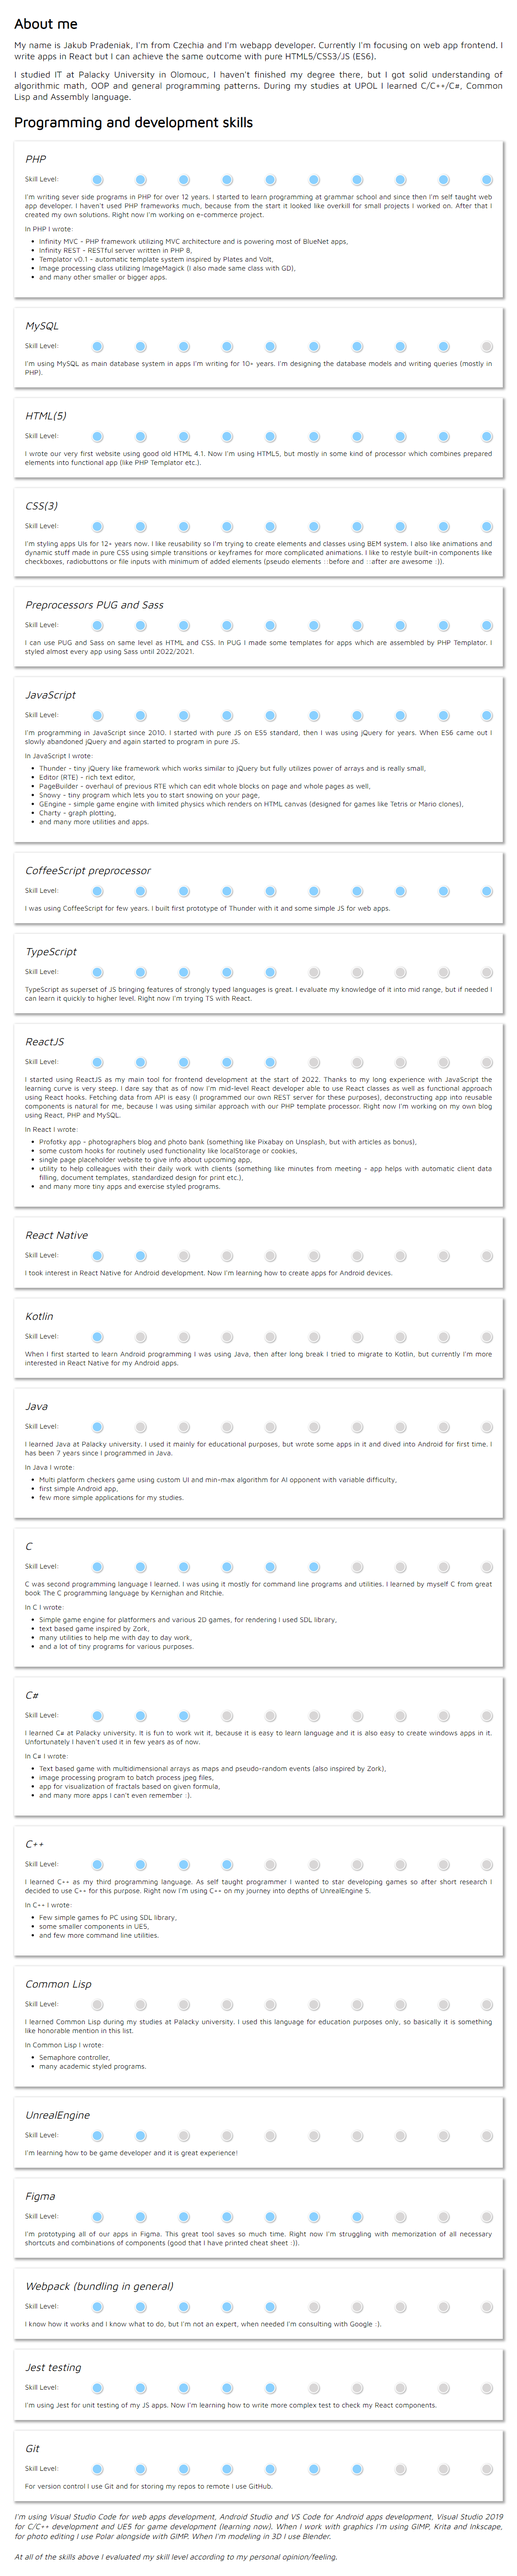
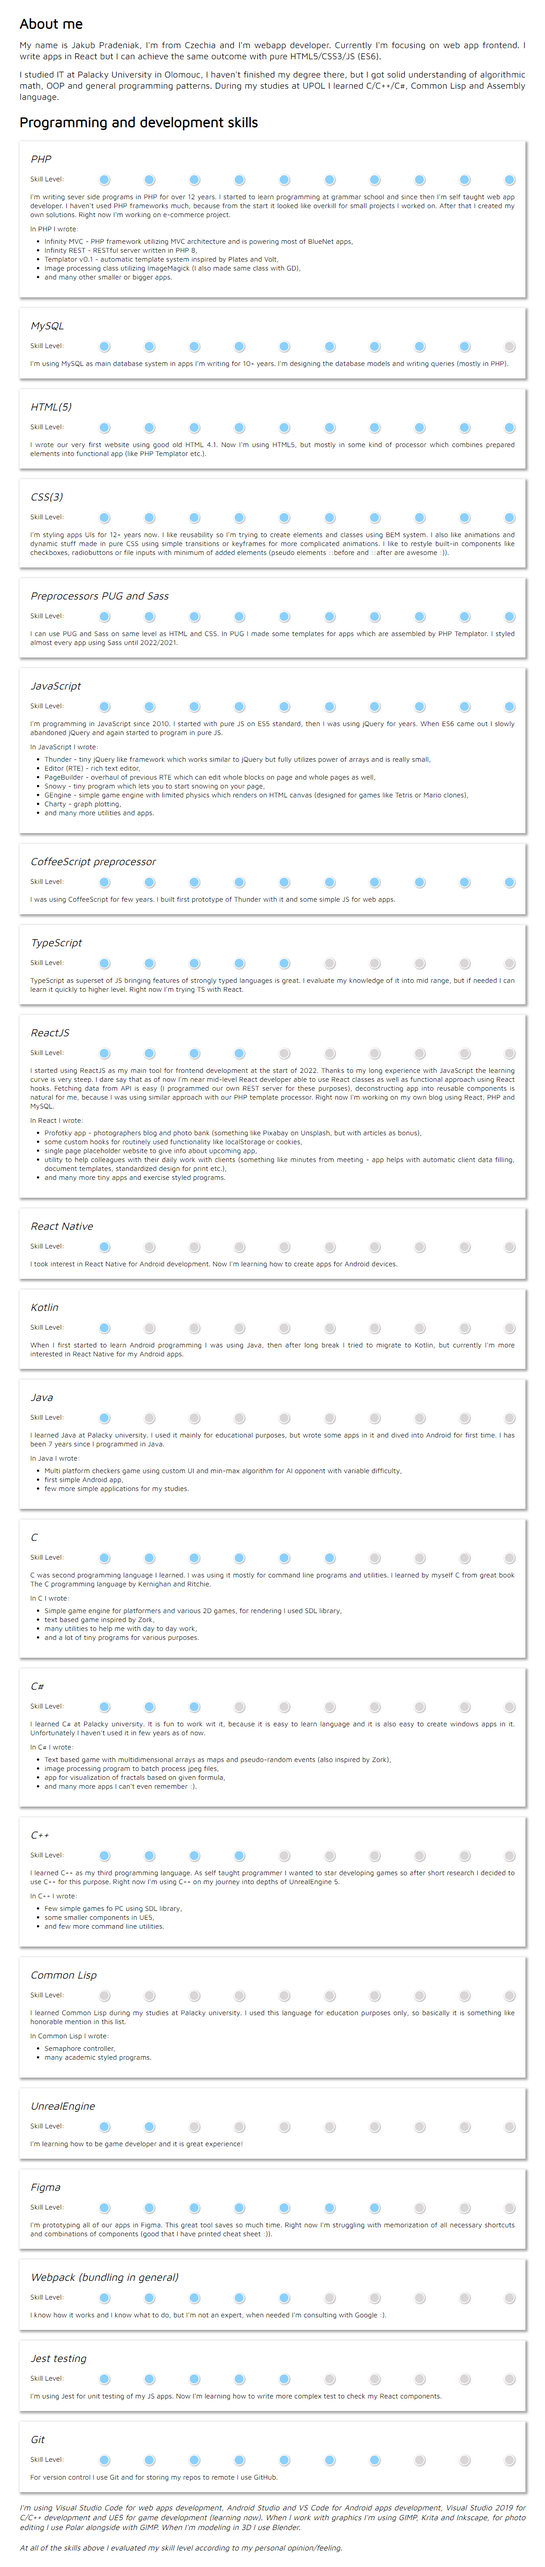
Update skills info

diff --git a/skills_en.html b/skills_en.html
@@ -130,10 +130,10 @@
 			</div>
 			<div class="skill">
 				<h2 class="skill__heading">ReactJS</h2>
-				<div class="skill__level" data-level="5"></div>
+				<div class="skill__level" data-level="4"></div>
 				<div class="skill__description">
 					<p>
-						I started using ReactJS as my main tool for frontend development at the start of 2022. Thanks to my long experience with JavaScript the learning curve is very steep. I dare say that as of now I'm mid-level React developer able to use React classes as well as functional approach using React hooks. Fetching data from API is easy (I programmed our own REST server for these purposes), deconstructing app into reusable components is natural for me, because I was using similar approach with our PHP template processor. Right now I'm working on my own blog using React, PHP and MySQL.
+						I started using ReactJS as my main tool for frontend development at the start of 2022. Thanks to my long experience with JavaScript the learning curve is very steep. I dare say that as of now I'm near mid-level React developer able to use React classes as well as functional approach using React hooks. Fetching data from API is easy (I programmed our own REST server for these purposes), deconstructing app into reusable components is natural for me, because I was using similar approach with our PHP template processor. Right now I'm working on my own blog using React, PHP and MySQL.
 					</p>
 					<p>
 						In React I wrote:
@@ -149,7 +149,7 @@
 			</div>
 			<div class="skill">
 				<h2 class="skill__heading">React Native</h2>
-				<div class="skill__level" data-level="2"></div>
+				<div class="skill__level" data-level="1"></div>
 				<div class="skill__description">
 					<p>
 						I took interest in React Native for Android development. Now I'm learning how to create apps for Android devices.
